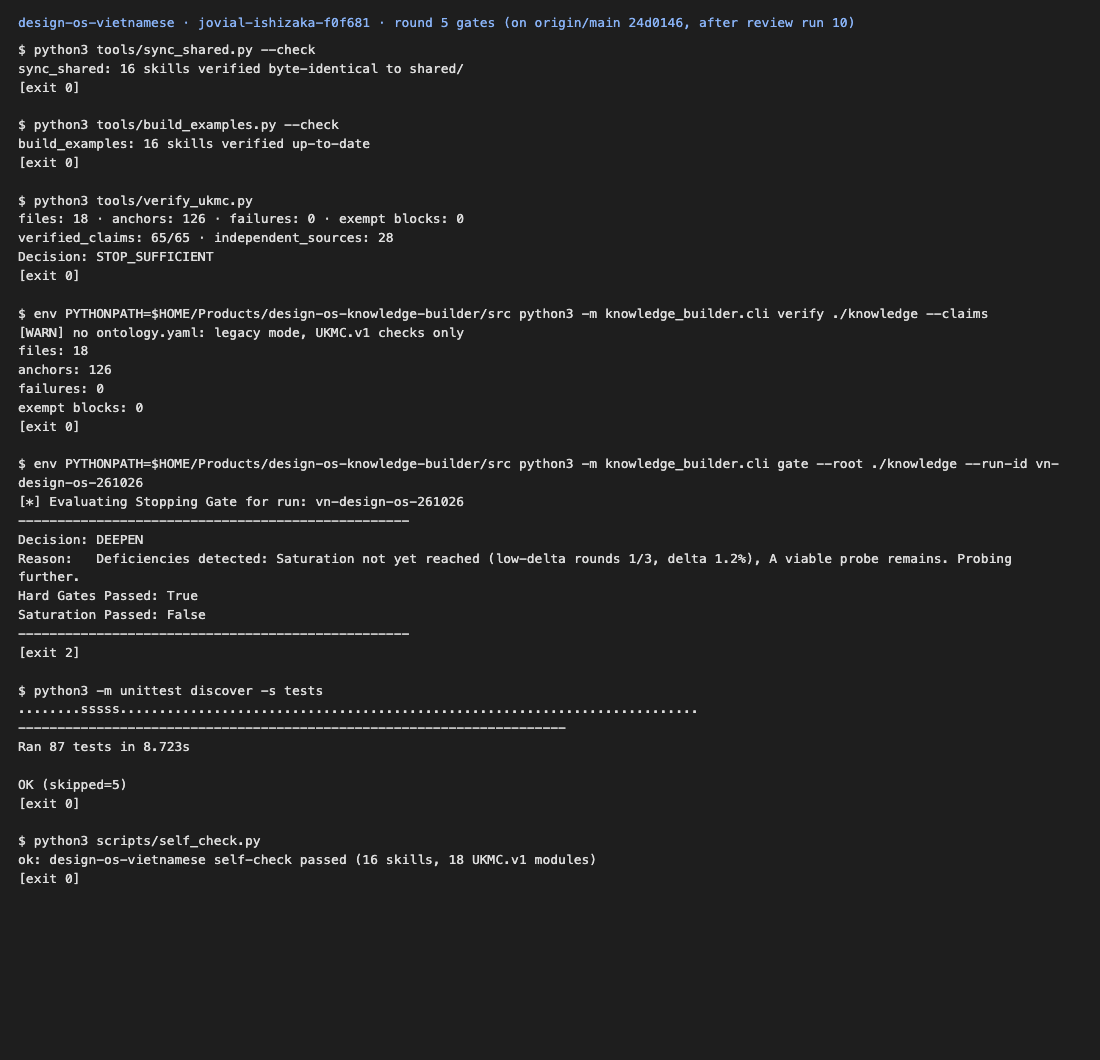
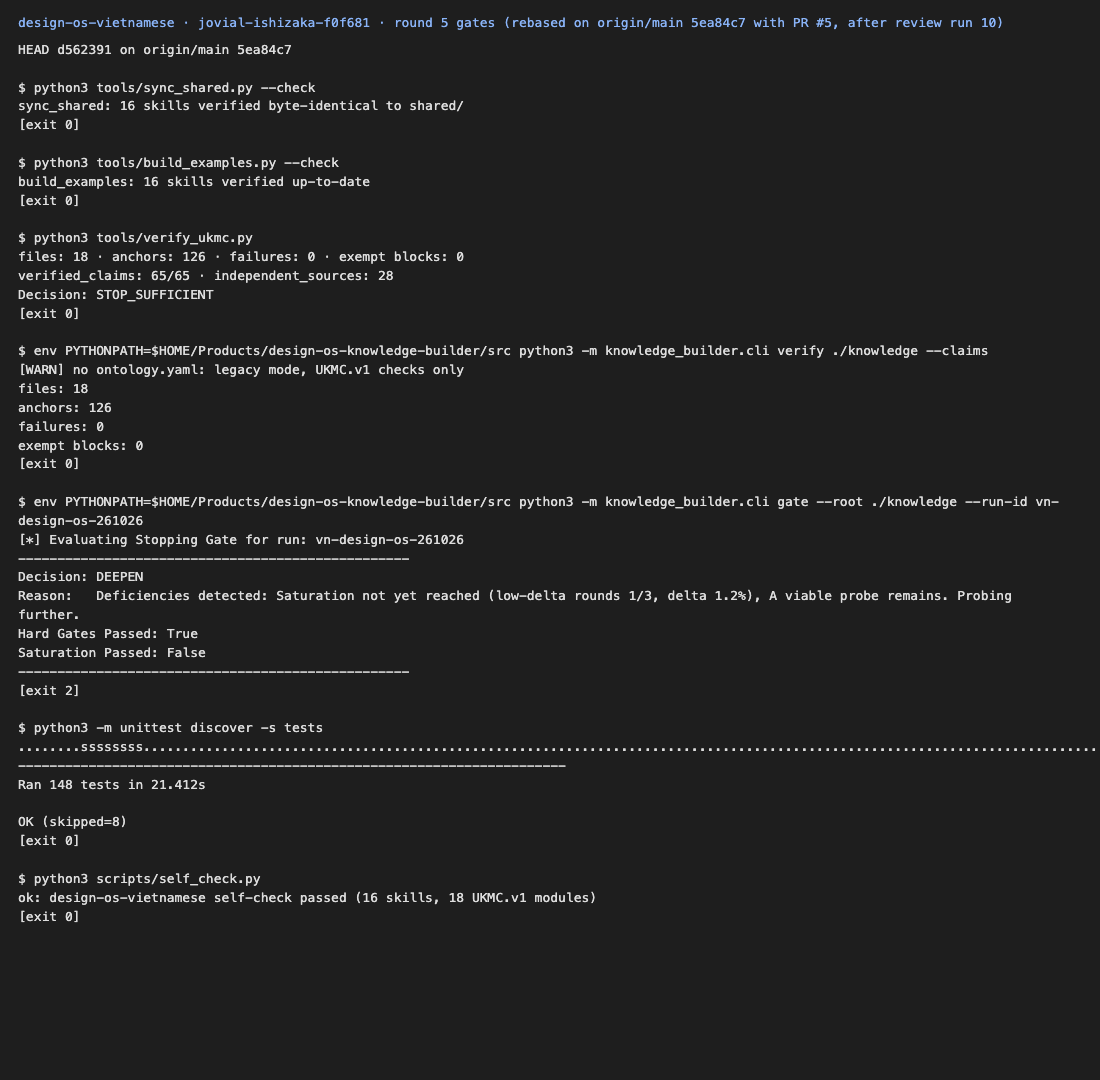
feat(knowledge): record the round-5 rebase onto the merged writing-context PR and rerun gates

diff --git a/plans/reports/knowledge-261028-2016-legal-validity-and-rule-variant-tables.md b/plans/reports/knowledge-261028-2016-legal-validity-and-rule-variant-tables.md
@@ -510,7 +510,7 @@ Screenshot: `knowledge-261028-2016-gates-terminal-r4.png`.
 
 ## 14. Round 5 (owner ruling 2026-10-29: Grok as the only reviewer)
 
-**Rebase.** Nothing to do: `origin/main` is still 24d0146 (PR #5 not merged), and the branch was 0 behind.
+**Rebase.** PR #5 (writing-context dimension) merged during the round. The branch was then rebased onto `origin/main` 5ea84c7 without conflicts: PR #5 touches no file in `knowledge/`, and the knowledge tree of the frozen commit is byte-identical before and after. Commit hashes changed: freeze c9fa997 is now e506b21, and the run-10 record 405f476 is now b17e9ac. `review.json` keeps the hash the review actually saw (c9fa997). The gates in §14.3 were rerun after the rebase.
 
 **The two run-9 fixes, nothing else** (freeze commit c9fa997):
 1. **Luật 56 / Điều 12.** Frozen source 25 settles it. Within Luật 56 Điều 1 (the Securities Law items), "Điều 12" occurs exactly once, at item 5 (khoản 3, market manipulation). Item 20 repeals Điều 23, khoản 3 Điều 48 and khoản 4–5 Điều 135, and inserts a phrase into Điều 7, 52 and 68. The "khoản 4 Điều 12" rewrite is item 4 of Luật 56 **Điều 2**, which amends the Accounting Law.
@@ -544,7 +544,7 @@ New minor item: `claim-pdpd-nd356-scope` adds the law number 91/2025/QH15, which
 
 ### 14.3 Verification after the last edit (round 5)
 
-The 7 commands were rerun by Haiku after the `review.json` and test update; Opus checked the raw output. Exit codes:
+The 7 commands were rerun by Haiku on the rebased HEAD (on 5ea84c7); Opus checked the raw output. Exit codes:
 
 | Command | Exit | Result |
 |---|---|---|
@@ -553,7 +553,7 @@ The 7 commands were rerun by Haiku after the `review.json` and test update; Opus
 | `verify_ukmc.py` | 0 | 65/65 claims, 28 sources, 126 anchors, 0 failures → **STOP_SUFFICIENT** |
 | `kb verify --claims` | 0 | 126 anchors, 0 failures |
 | `kb gate` | 2 (expected) | DEEPEN; Hard Gates Passed: True; saturation 1/3 (delta 1.2%); a viable probe remains |
-| unittest | 0 | 87 tests OK (5 skipped) |
+| unittest | 0 | 148 tests OK (8 skipped); PR #5 added 61 tests |
 | `self_check.py` | 0 | 16 skills, 18 UKMC.v1 modules |
 
 Screenshot: `knowledge-261028-2016-gates-terminal-r5.png`.
